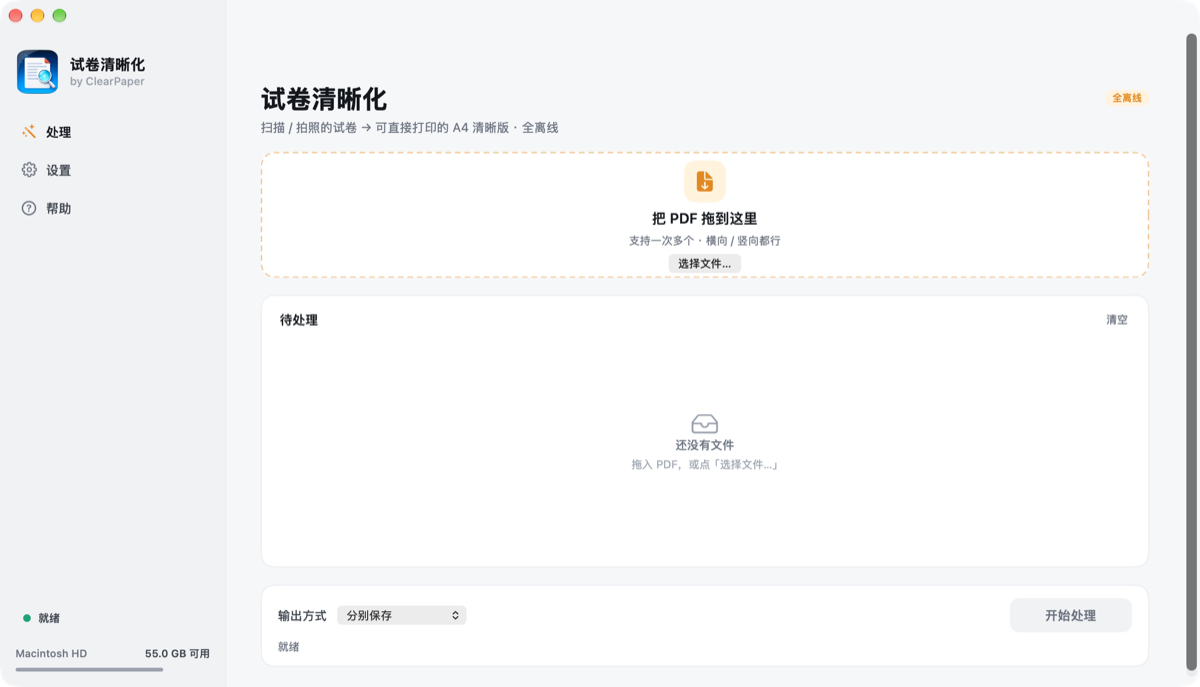
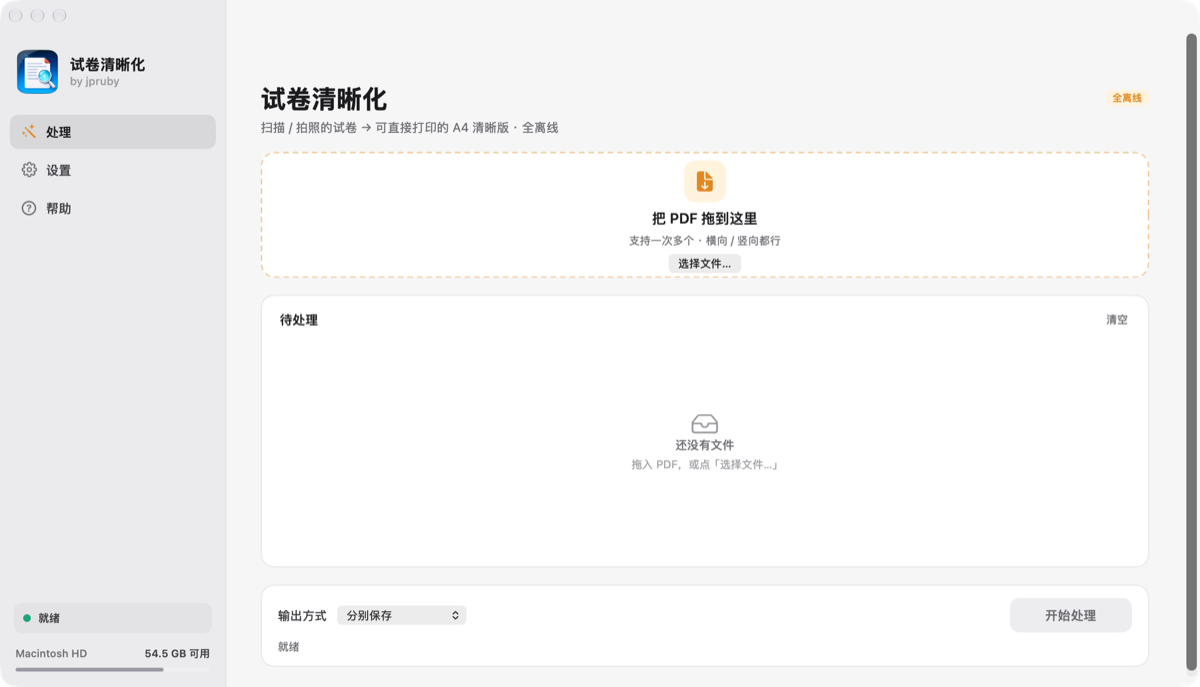
macOS 1.3.1: match reference palette, by jpruby
- Dark: warm grays #262628 sidebar / #1C1C1E canvas / #2A2A2D cards,
  selected nav #3D3D3E (no more near-black/blue tint)
- Light: #EBEBEE sidebar / #F6F6F7 canvas / #FFFFFF cards
- Neutral text and hairline colors; pill and icon backgrounds recalibrated
- Sidebar signature changed to 'by jpruby'
- Refresh docs/screenshots/mac-ui.png; bump to 1.3.1 (build 7)

Changed region(s): [[0.0, 0.1528, 0.185, 0.214], [0.0617, 0.0917, 0.1233, 0.1223], [0.0, 0.0, 0.0617, 0.0306]]

diff --git a/macos/main.swift b/macos/main.swift
@@ -121,25 +121,30 @@ enum T {
                 blue: CGFloat(v & 0xFF) / 255, alpha: 1)
     }
 
-    static let canvas    = dyn(hex(0xF6F7F9), hex(0x0F1115))
-    static let sidebar   = dyn(hex(0xF1F2F4), hex(0x0E1014))
-    static let panel     = dyn(hex(0xFFFFFF), hex(0x171A20))
-    static let panel2    = dyn(hex(0xFAFBFC), hex(0x1B1F26))
-    static let ink       = dyn(hex(0x14171C), hex(0xEEF0F4))
-    static let ink2      = dyn(hex(0x3D434D), hex(0xC9CED6))
-    static let sub       = dyn(hex(0x6B7280), hex(0x9AA2AE))
-    static let mute      = dyn(hex(0x9AA1AD), hex(0x6D7480))
-    static let line      = dyn(hex(0xE9EBEF), hex(0x262A32))
-    static let line2     = dyn(hex(0xF1F2F5), hex(0x20242B))
-    static let graySoft  = dyn(hex(0xF1F2F4), hex(0x20242B))
+    // 色值对齐 Purrge：浅色侧栏 #EBEBEE / 内容底 #F6F6F7 / 卡片白；
+    // 深色不是纯黑，而是暖灰 #262628 / #1C1C1E / #2A2A2D。
+    static let canvas    = dyn(hex(0xF6F6F7), hex(0x1C1C1E))
+    static let sidebar   = dyn(hex(0xEBEBEE), hex(0x262628))
+    static let panel     = dyn(hex(0xFFFFFF), hex(0x2A2A2D))
+    static let panel2    = dyn(hex(0xFAFAFB), hex(0x232326))
+    static let ink       = dyn(hex(0x1B1B1E), hex(0xF2F2F4))
+    static let ink2      = dyn(hex(0x3A3A3F), hex(0xC9C9CE))
+    static let sub       = dyn(hex(0x6C6C72), hex(0x9A9AA0))
+    static let mute      = dyn(hex(0x9A9AA0), hex(0x6E6E74))
+    static let line      = dyn(hex(0xE4E4E8), hex(0x3A3A3D))
+    static let line2     = dyn(hex(0xEFEFF2), hex(0x303033))
+    static let graySoft  = dyn(hex(0xEDEDF0), hex(0x343437))
+    static let navSelected = dyn(hex(0xD8D8DB), hex(0x3D3D3E))
+    static let navHover    = dyn(hex(0xE2E2E6), hex(0x323234))
+    static let pillBg      = dyn(hex(0xE3E3E6), hex(0x38383A))
     static let amber     = dyn(hex(0xE08A00), hex(0xF0A83C))
-    static let amberSoft = dyn(hex(0xFFF3DC), hex(0x2E2412))
+    static let amberSoft = dyn(hex(0xFFF3DC), hex(0x3A2B12))
     static let green     = dyn(hex(0x12A374), hex(0x35C79B))
-    static let greenSoft = dyn(hex(0xE6F6F0), hex(0x11291F))
+    static let greenSoft = dyn(hex(0xE6F6F0), hex(0x163024))
     static let blue      = dyn(hex(0x2F6BFF), hex(0x6B9BFF))
-    static let blueSoft  = dyn(hex(0xEAF0FF), hex(0x18233D))
+    static let blueSoft  = dyn(hex(0xEAF0FF), hex(0x1E2A44))
     static let red       = dyn(hex(0xE5484D), hex(0xFF6B6F))
-    static let redSoft   = dyn(hex(0xFDECEC), hex(0x321A1C))
+    static let redSoft   = dyn(hex(0xFDECEC), hex(0x3A2023))
 
     static let cardR: CGFloat = 14
     static let sidebarW: CGFloat = 236
@@ -335,7 +340,7 @@ final class StatusPill: ColorView {
     }
 
     init() {
-        super.init(color: T.graySoft)
+        super.init(color: T.pillBg)
         layer?.cornerRadius = 9
         layer?.cornerCurve = .continuous
 
@@ -422,7 +427,7 @@ final class NavRow: NSView {
 
     override var wantsUpdateLayer: Bool { true }
     override func updateLayer() {
-        layer?.backgroundColor = (isSelected || hover) ? T.graySoft.cgColor : NSColor.clear.cgColor
+        layer?.backgroundColor = (isSelected ? T.navSelected : (hover ? T.navHover : T.sidebar)).cgColor
         iconView.contentTintColor = isSelected ? T.amber : T.sub
         titleLabel.textColor = isSelected ? T.ink : T.ink2
         titleLabel.font = .systemFont(ofSize: 13.5, weight: isSelected ? .semibold : .medium)
@@ -978,7 +983,7 @@ final class App: NSObject, NSApplicationDelegate, NSTableViewDataSource, NSTable
         icon.layer?.masksToBounds = true
 
         let name = label("试卷清晰化", 16, .bold, T.ink)
-        let by = label("by ClearPaper", 11.5, .medium, T.mute)
+        let by = label("by jpruby", 11.5, .medium, T.mute)
         let titles = vstack([name, by], spacing: 1)
         let head = hstack([icon, titles], spacing: 11, alignment: .centerY)
         head.translatesAutoresizingMaskIntoConstraints = false

diff --git a/README_EN.md b/README_EN.md
@@ -63,7 +63,7 @@ Result card on iPhone (fully on-device: import PDF → process → print / share
 
 ### macOS · drag into Applications
 
-1. Download **`ScanClean-macOS-1.3.0.dmg`** from [Releases](https://github.com/jpruby0127/ClearPaper/releases);
+1. Download **`ScanClean-macOS-1.3.1.dmg`** from [Releases](https://github.com/jpruby0127/ClearPaper/releases);
 2. Open the DMG and drag "试卷清晰化" into Applications;
 3. If blocked on first launch: right-click the app → Open → Open.
 
@@ -168,7 +168,7 @@ Issues and PRs welcome — let's make this a real open-source gem together.
 
 | Version | Platform | Artifact | Notes |
 |---|---|---|---|
-| v1.3.0 | macOS | `ScanClean-macOS-1.3.0.dmg` | New sidebar UI; multi-file merge + landscape A4 fix |
+| v1.3.1 | macOS | `ScanClean-macOS-1.3.1.dmg` | New sidebar UI; multi-file merge + landscape A4 fix |
 | v1.2.1 | iOS | `ScanClean-iOS-1.2.1-unsigned.ipa` | Native app, fully on-device, self-sign to install |
 | v1.0.1 | Windows | `ScanClean-Windows-portable.zip` | Portable, bundled Python + deps, drag-and-drop |
 
